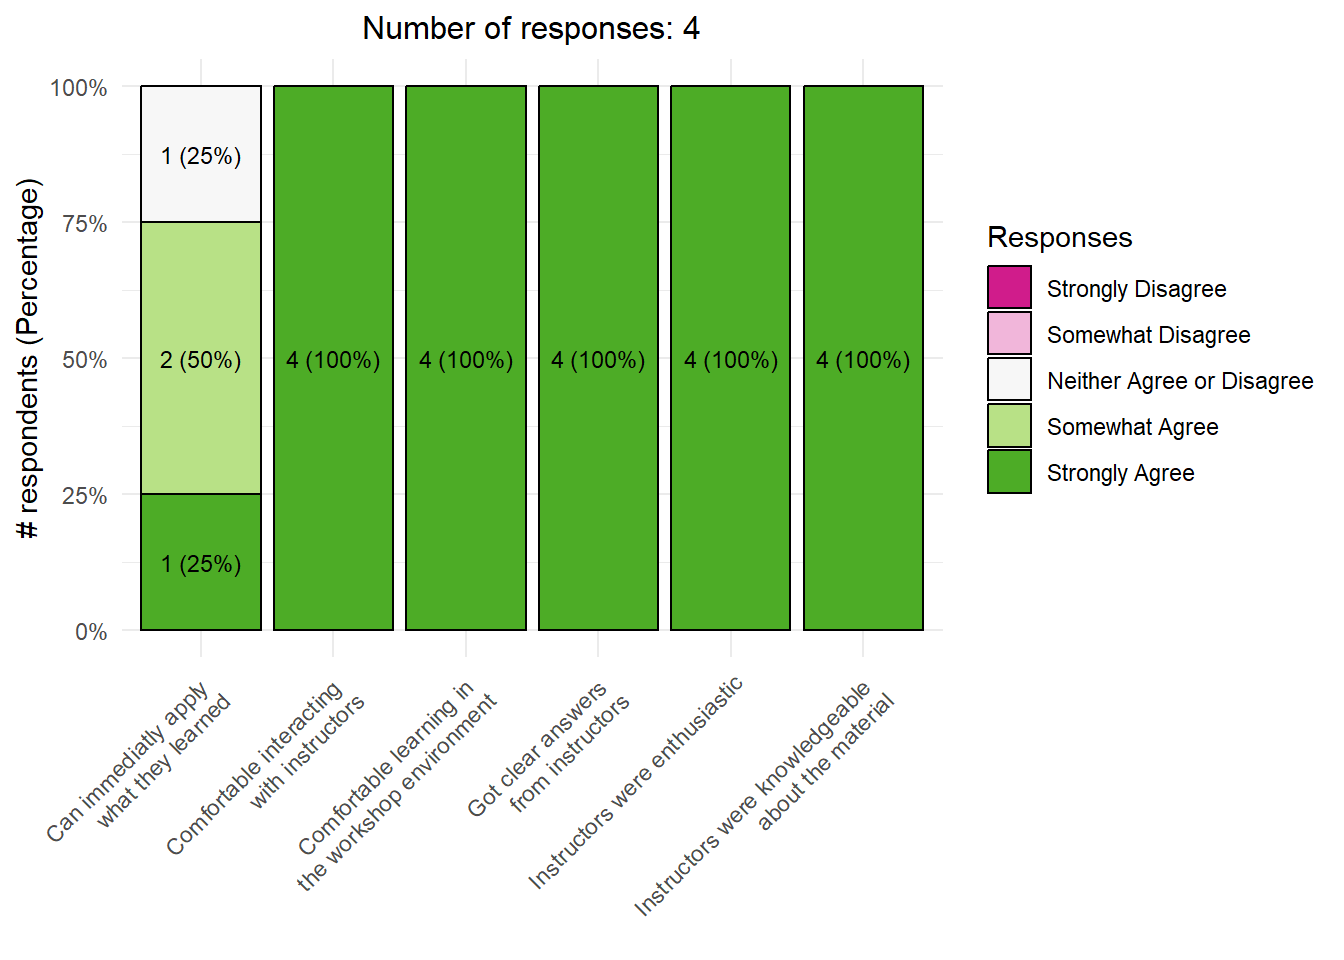
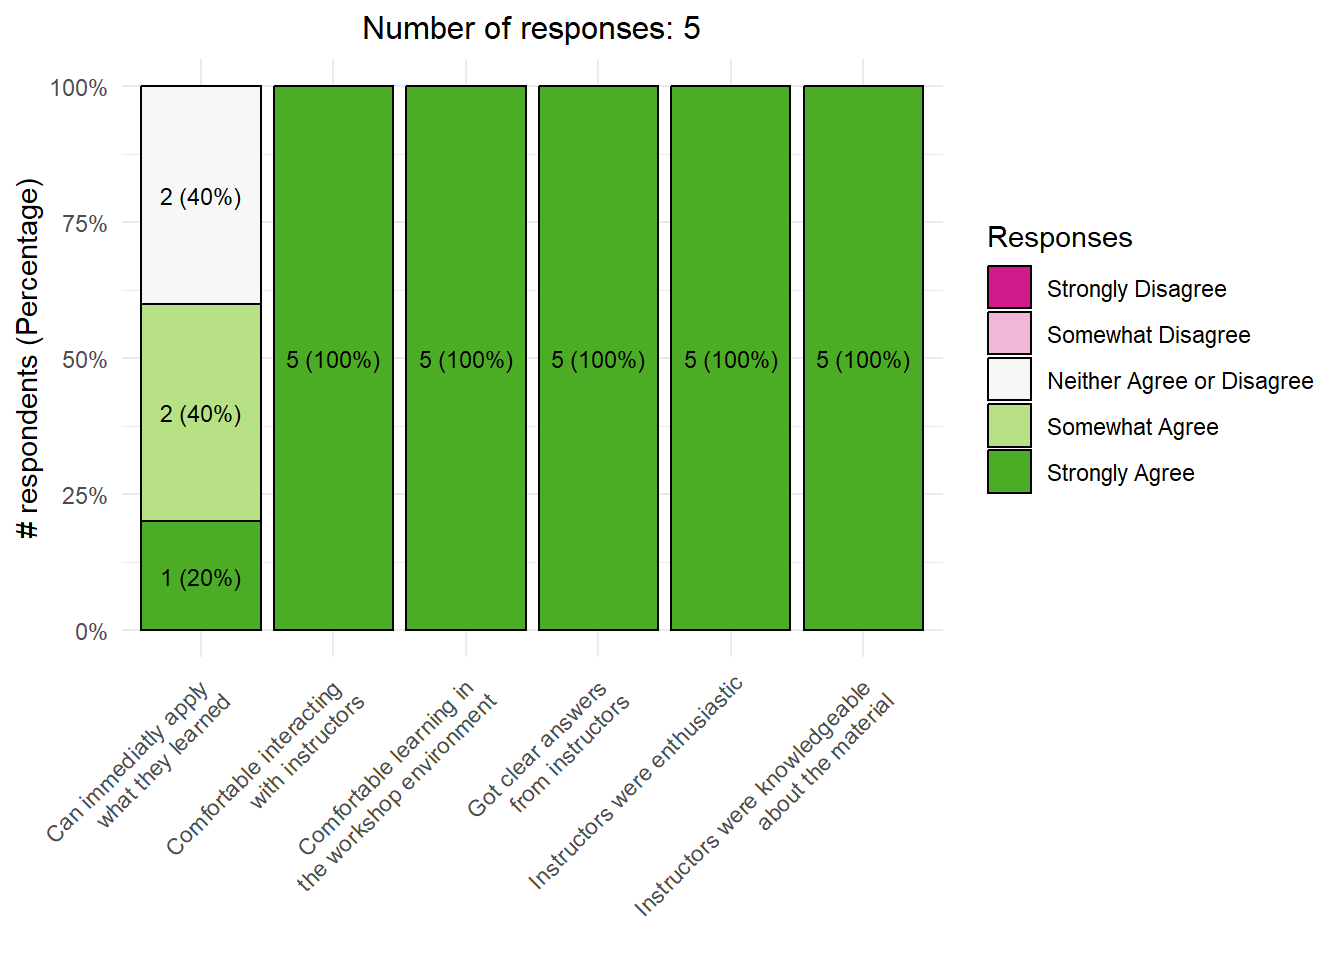
update with w25 containers new responses

Changed region(s): [[0.0938, 0.1562, 0.2188, 0.4375], [0.0938, 0.5, 0.2188, 0.625], [0.5, 0.0, 0.5312, 0.0312]]

diff --git a/docs/2025-01-15-winter-containers.html b/docs/2025-01-15-winter-containers.html
@@ -259,7 +259,7 @@ pre > code.sourceCode > span > a:first-child::before { text-decoration: underlin
 <div class="value-box-showcase html-fill-item html-fill-container"><svg xmlns="http://www.w3.org/2000/svg" viewbox="0 0 16 16" class="bi bi-people-fill " style="height:1em;width:1em;fill:currentColor;vertical-align:-0.125em;" aria-hidden="true" role="img"><path d="M7 14s-1 0-1-1 1-4 5-4 5 3 5 4-1 1-1 1H7Zm4-6a3 3 0 1 0 0-6 3 3 0 0 0 0 6Zm-5.784 6A2.238 2.238 0 0 1 5 13c0-1.355.68-2.75 1.936-3.72A6.325 6.325 0 0 0 5 9c-4 0-5 3-5 4s1 1 1 1h4.216ZM4.5 8a2.5 2.5 0 1 0 0-5 2.5 2.5 0 0 0 0 5Z"></path></svg></div>
 <div class="value-box-area html-fill-item html-fill-container">
 <p class="value-box-title">Total survey responses</p>
-<p class="value-box-value">6</p>
+<p class="value-box-value">7</p>
 </div>
 </div>
 </div>
@@ -301,7 +301,7 @@ pre > code.sourceCode > span > a:first-child::before { text-decoration: underlin
 <div class="value-box-showcase html-fill-item html-fill-container"><svg xmlns="http://www.w3.org/2000/svg" viewbox="0 0 16 16" class="bi bi-arrow-right-short " style="height:1em;width:1em;fill:currentColor;vertical-align:-0.125em;" aria-hidden="true" role="img"><path fill-rule="evenodd" d="M4 8a.5.5 0 0 1 .5-.5h5.793L8.146 5.354a.5.5 0 1 1 .708-.708l3 3a.5.5 0 0 1 0 .708l-3 3a.5.5 0 0 1-.708-.708L10.293 8.5H4.5A.5.5 0 0 1 4 8z"></path></svg></div>
 <div class="value-box-area html-fill-item html-fill-container">
 <p class="value-box-title">Only post-workshop</p>
-<p class="value-box-value">2</p>
+<p class="value-box-value">3</p>
 </div>
 </div>
 </div>
@@ -569,6 +569,10 @@ pre > code.sourceCode > span > a:first-child::before { text-decoration: underlin
 <div class="cell-output-display">
 <div class="kable-table">
 <table class="table table-sm table-striped small">
+<colgroup>
+<col style="width: 20%">
+<col style="width: 79%">
+</colgroup>
 <thead>
 <tr class="header">
 <th style="text-align: left;">workshop</th>
@@ -579,6 +583,10 @@ pre > code.sourceCode > span > a:first-child::before { text-decoration: underlin
 <tr class="odd">
 <td style="text-align: left;">2025-01-15-ucsb-containers</td>
 <td style="text-align: left;">Ronald was enthusiastic and clear</td>
+</tr>
+<tr class="even">
+<td style="text-align: left;">2025-01-15-ucsb-containers</td>
+<td style="text-align: left;">There were a couple of moments where the code was not working, and they found the solution every time.</td>
 </tr>
 </tbody>
 </table>
@@ -669,6 +677,10 @@ pre > code.sourceCode > span > a:first-child::before { text-decoration: underlin
 <td style="text-align: left;">2025-01-15-ucsb-containers</td>
 <td style="text-align: left;">clear document to follow</td>
 </tr>
+<tr class="even">
+<td style="text-align: left;">2025-01-15-ucsb-containers</td>
+<td style="text-align: left;">The material to follow the workshop.</td>
+</tr>
 </tbody>
 </table>
 </div>
@@ -689,8 +701,8 @@ pre > code.sourceCode > span > a:first-child::before { text-decoration: underlin
 <div class="kable-table">
 <table class="table table-sm table-striped small">
 <colgroup>
-<col style="width: 36%">
-<col style="width: 64%">
+<col style="width: 22%">
+<col style="width: 77%">
 </colgroup>
 <thead>
 <tr class="header">
@@ -706,6 +718,10 @@ pre > code.sourceCode > span > a:first-child::before { text-decoration: underlin
 <tr class="even">
 <td style="text-align: left;">2025-01-15-ucsb-containers</td>
 <td style="text-align: left;">a bit long, but seems necessary to be this long</td>
+</tr>
+<tr class="odd">
+<td style="text-align: left;">2025-01-15-ucsb-containers</td>
+<td style="text-align: left;">More applied examples of how to work in a project with big data sets and share the projects.</td>
 </tr>
 </tbody>
 </table>
@@ -780,6 +796,10 @@ pre > code.sourceCode > span > a:first-child::before { text-decoration: underlin
 <tr class="odd">
 <td style="text-align: left;">2025-01-15-ucsb-containers</td>
 <td style="text-align: left;">dealing with large dataset in python (e.g.&nbsp;using xarray)</td>
+</tr>
+<tr class="even">
+<td style="text-align: left;">2025-01-15-ucsb-containers</td>
+<td style="text-align: left;">More workshops.</td>
 </tr>
 </tbody>
 </table>

diff --git a/docs/2025-winter-all.html b/docs/2025-winter-all.html
@@ -236,7 +236,7 @@ pre > code.sourceCode > span > a:first-child::before { text-decoration: underlin
 <div class="value-box-showcase html-fill-item html-fill-container"><svg xmlns="http://www.w3.org/2000/svg" viewbox="0 0 16 16" class="bi bi-people-fill " style="height:1em;width:1em;fill:currentColor;vertical-align:-0.125em;" aria-hidden="true" role="img"><path d="M7 14s-1 0-1-1 1-4 5-4 5 3 5 4-1 1-1 1H7Zm4-6a3 3 0 1 0 0-6 3 3 0 0 0 0 6Zm-5.784 6A2.238 2.238 0 0 1 5 13c0-1.355.68-2.75 1.936-3.72A6.325 6.325 0 0 0 5 9c-4 0-5 3-5 4s1 1 1 1h4.216ZM4.5 8a2.5 2.5 0 1 0 0-5 2.5 2.5 0 0 0 0 5Z"></path></svg></div>
 <div class="value-box-area html-fill-item html-fill-container">
 <p class="value-box-title">Total responses</p>
-<p class="value-box-value">94</p>
+<p class="value-box-value">95</p>
 </div>
 </div>
 </div>
@@ -278,7 +278,7 @@ pre > code.sourceCode > span > a:first-child::before { text-decoration: underlin
 <div class="value-box-showcase html-fill-item html-fill-container"><svg xmlns="http://www.w3.org/2000/svg" viewbox="0 0 16 16" class="bi bi-arrow-right-short " style="height:1em;width:1em;fill:currentColor;vertical-align:-0.125em;" aria-hidden="true" role="img"><path fill-rule="evenodd" d="M4 8a.5.5 0 0 1 .5-.5h5.793L8.146 5.354a.5.5 0 1 1 .708-.708l3 3a.5.5 0 0 1 0 .708l-3 3a.5.5 0 0 1-.708-.708L10.293 8.5H4.5A.5.5 0 0 1 4 8z"></path></svg></div>
 <div class="value-box-area html-fill-item html-fill-container">
 <p class="value-box-title">Only post-workshop</p>
-<p class="value-box-value">15</p>
+<p class="value-box-value">16</p>
 </div>
 </div>
 </div>
@@ -894,6 +894,10 @@ pre > code.sourceCode > span > a:first-child::before { text-decoration: underlin
 <td style="text-align: left;">2025-02-03-ucsb-computing</td>
 <td style="text-align: left;">answered my specific questions</td>
 </tr>
+<tr class="odd">
+<td style="text-align: left;">2025-01-15-ucsb-containers</td>
+<td style="text-align: left;">There were a couple of moments where the code was not working, and they found the solution every time.</td>
+</tr>
 </tbody>
 </table>
 </div>
@@ -1067,6 +1071,10 @@ pre > code.sourceCode > span > a:first-child::before { text-decoration: underlin
 <td style="text-align: left;">2025-02-03-ucsb-computing</td>
 <td style="text-align: left;">It felt approachable and general enough for all of the different backgrounds that the attendees had. Listed resources that folks could go to for additional help.</td>
 </tr>
+<tr class="odd">
+<td style="text-align: left;">2025-01-15-ucsb-containers</td>
+<td style="text-align: left;">The material to follow the workshop.</td>
+</tr>
 </tbody>
 </table>
 </div>
@@ -1188,6 +1196,10 @@ pre > code.sourceCode > span > a:first-child::before { text-decoration: underlin
 <tr class="odd">
 <td style="text-align: left;">2025-02-03-ucsb-computing</td>
 <td style="text-align: left;">Maybe splitting up into groups for Q&amp;A session for folks that had questions about CSC, HPC, data storage, etc.</td>
+</tr>
+<tr class="even">
+<td style="text-align: left;">2025-01-15-ucsb-containers</td>
+<td style="text-align: left;">More applied examples of how to work in a project with big data sets and share the projects.</td>
 </tr>
 </tbody>
 </table>
@@ -1342,6 +1354,10 @@ pre > code.sourceCode > span > a:first-child::before { text-decoration: underlin
 <tr class="odd">
 <td style="text-align: left;">2025-02-03-ucsb-computing</td>
 <td style="text-align: left;">How SLURM works, how to choose nodes/tasks/cores/etc. on campus computing resources</td>
+</tr>
+<tr class="even">
+<td style="text-align: left;">2025-01-15-ucsb-containers</td>
+<td style="text-align: left;">More workshops.</td>
 </tr>
 </tbody>
 </table>
